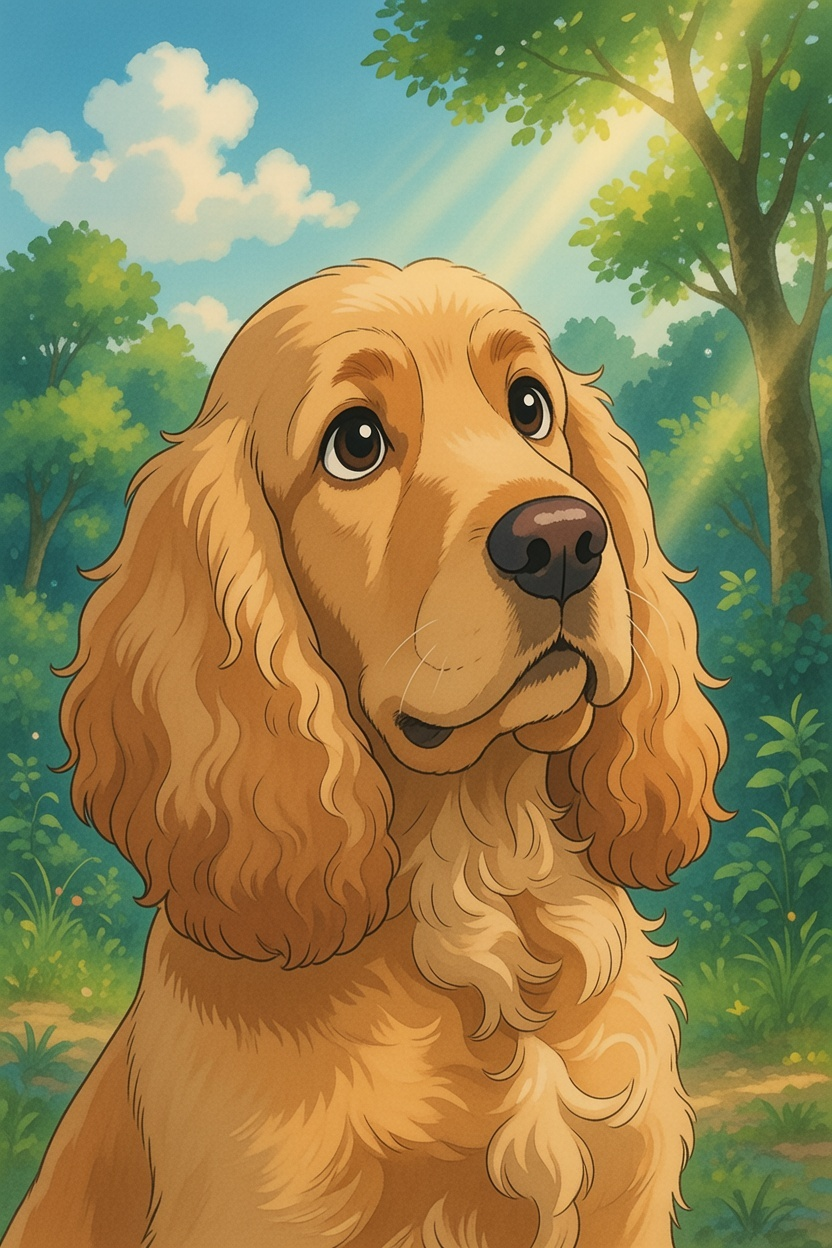
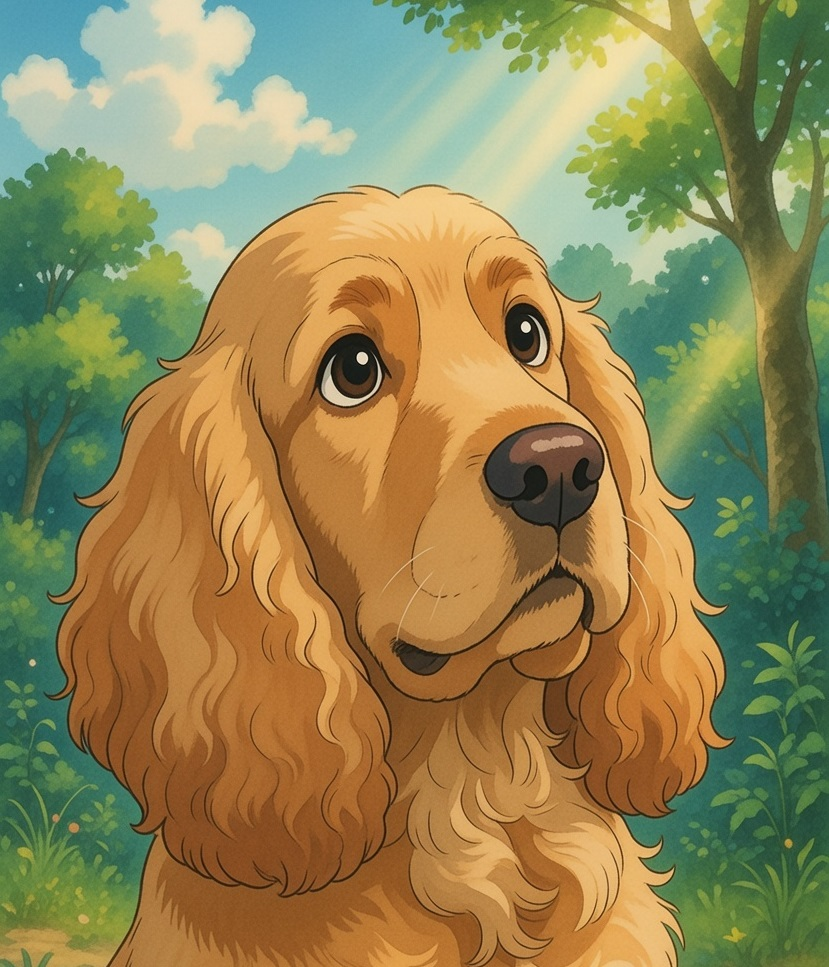
fix phto

diff --git a/style.css b/style.css
@@ -152,7 +152,7 @@ body {
 
 .foto-real {
     width: 100%;
-    height: 180px;
+    aspect-ratio: 4/3;
     background-size: cover;
     background-position: center;
     border-radius: 12px;
